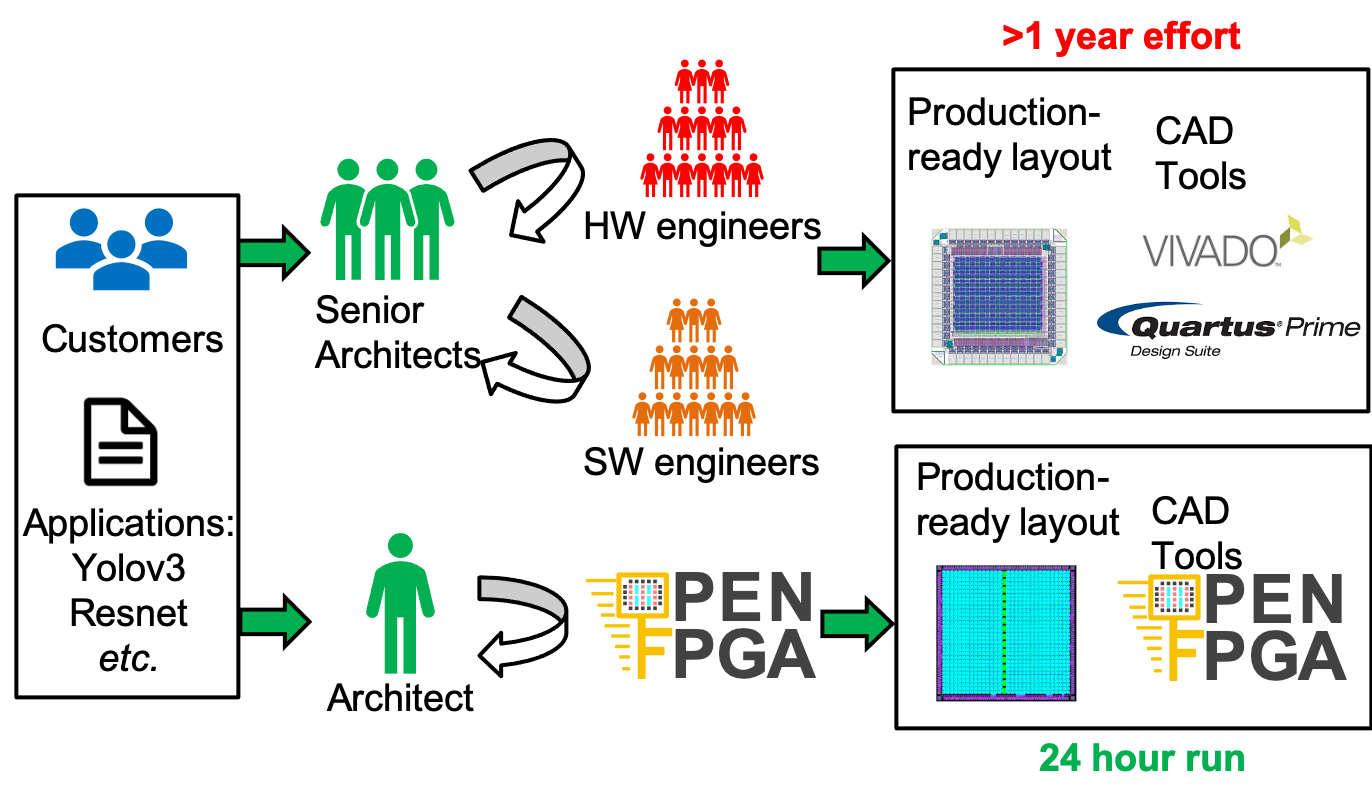
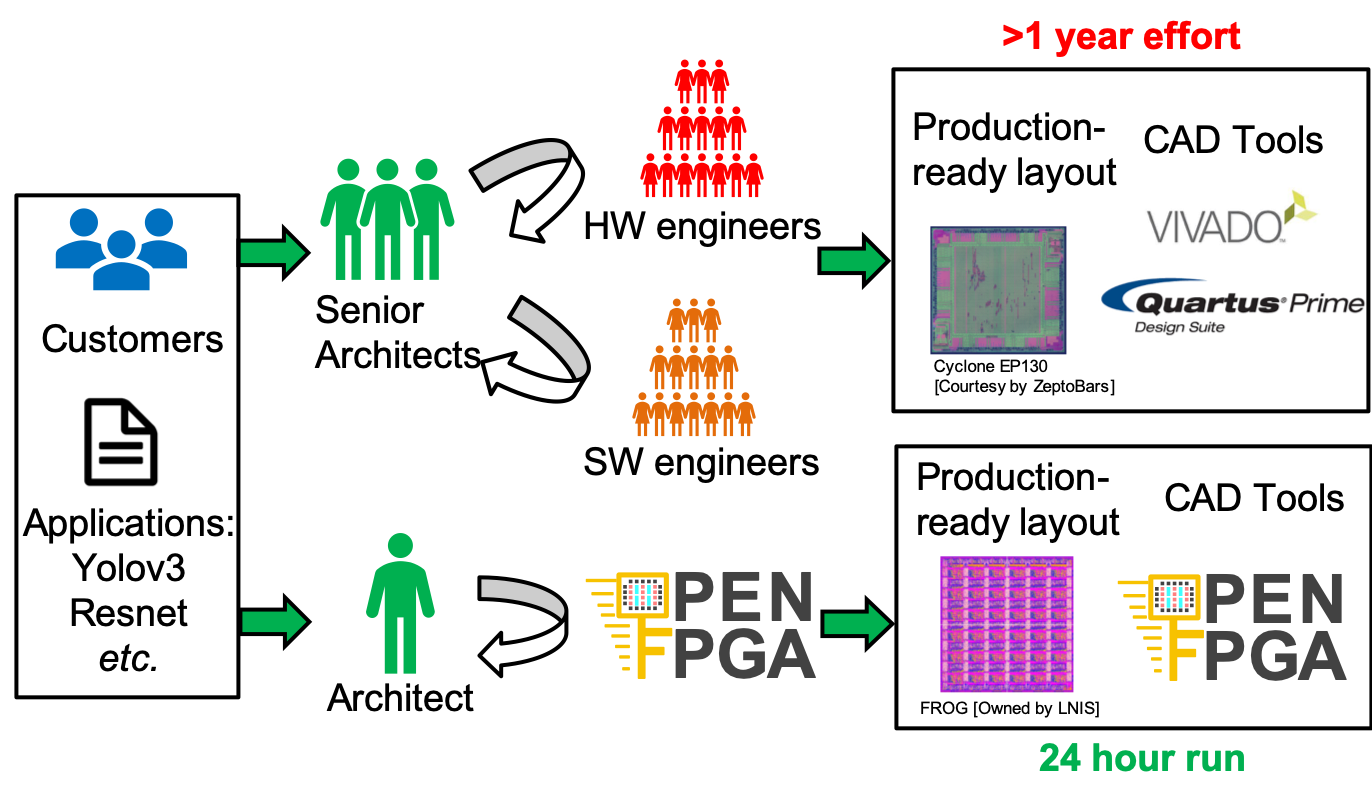
[documentation] update motivation figure and layout licenses

diff --git a/docs/source/motivation.rst b/docs/source/motivation.rst
@@ -9,7 +9,7 @@ OpenFPGA aims to be an open-source framework that enables rapid prototyping of c
    :scale: 50%
    :alt: OpenFPGA: a fast prototyping framework for customizable FPGAs
 
-   Comparison on engineering time and effort to prototype an FPGA using OpenFPGA and conventional approaches
+   Comparison on engineering time and effort to prototype an FPGA using OpenFPGA and conventional approaches [All the layout figures are permitted to publish under proper licenses]
 
 Using OpenFPGA, the development cycle in both hardware and software can be significantly accelerated. OpenFPGA can automatically generate Verilog netlists describing a full FPGA fabric based on an XML-based description file. Thanks to modern semi-custom design tools, production-ready layout generation can be achieved within 24 hours. To help sign-off, OpenFPGA can auto-generate Verilog testbenches to validate the correctness of FPGA fabric using modern verification tools.
 OpenFPGA also provides native bitstream generation support based the same XML-based description file used in Verilog generation. This avoid the recurring engineering in developing CAD tools for different FPGAs. Once the FPGA architecture is finalized, the CAD tool is ready to use.
